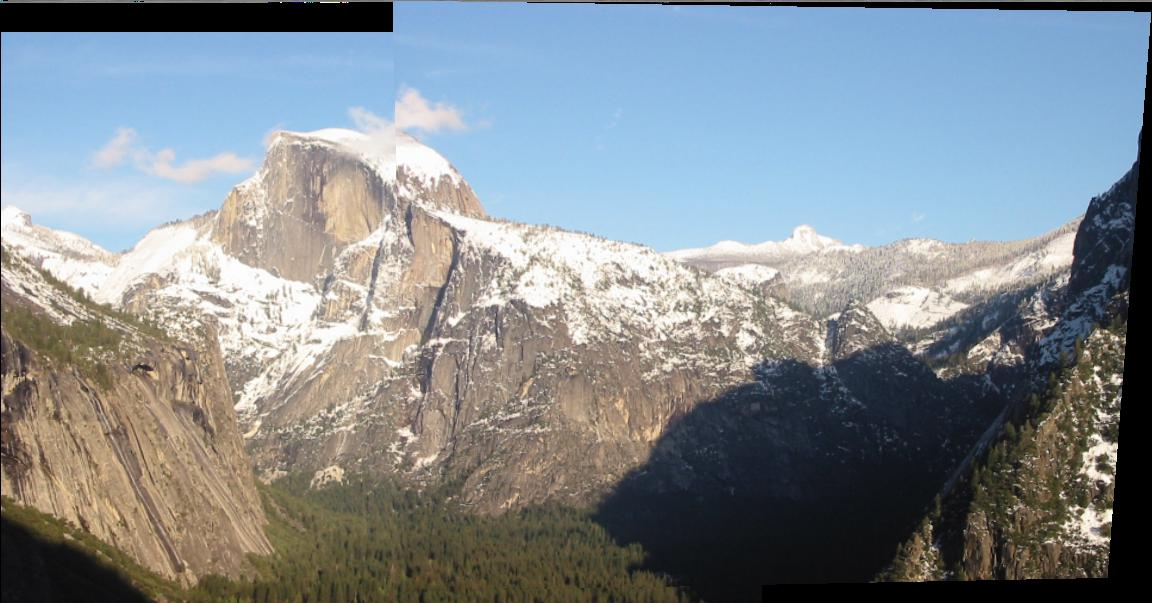
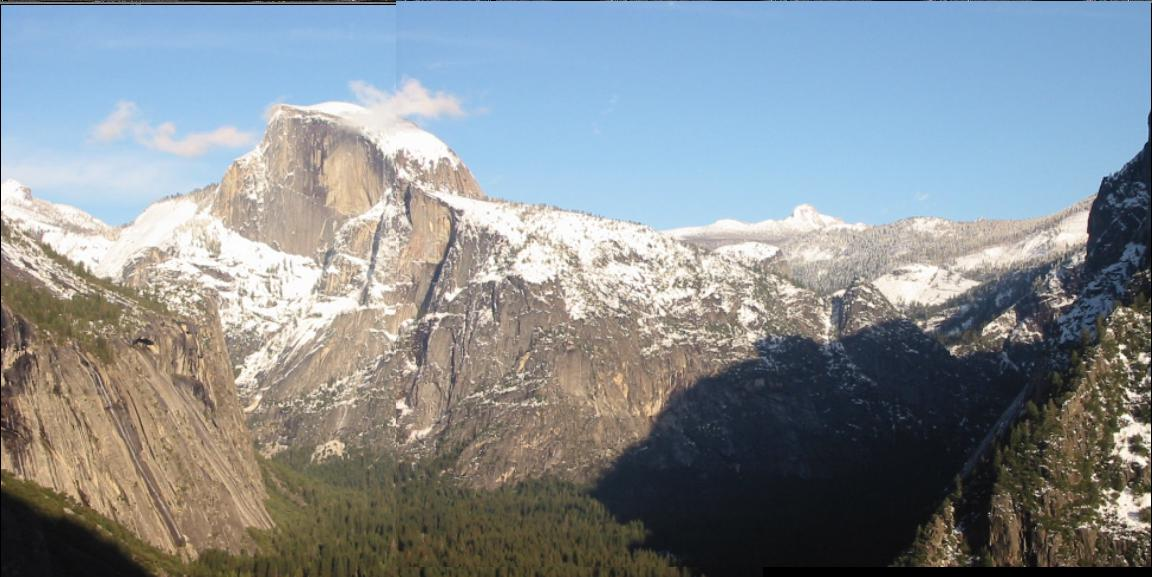
- Refactoring - RANSAC adaptativo (ainda comentado)

diff --git a/work-3/MyActions/utils.cpp b/work-3/MyActions/utils.cpp
@@ -711,15 +711,24 @@ vector< pair<Dot*,Dot*> > Utils::surf(const char *img1Path, const char * img2Pat
       return goodPairs;
 }
 
-vector< pair<Dot*,Dot*> > Utils::getBestPairs(vector< pair<Dot*,Dot*> > pairs, int n, int numberOfCorrespondences)
+vector< pair<Dot*,Dot*> > Utils::getBestPairs(vector< pair<Dot*,Dot*> > pairs, int n, int numberOfCorrespondences, double threshold)
 {
     srand (time(NULL));
     int maxInliers = 0;
     vector< pair<Dot*,Dot*> > bestInliers;
     vector< pair<Dot*,Dot*> > bestInliersInCurrentIteration;
     vector< pair<Dot*,Dot*> > randomPairs;
-    for (int i = 0; i < n; i++)
-    {
+    //double N = 588;
+    //double Ni = 0;
+    //double w = 1; // Inliers likelihood
+    //double e = 0; // Outliers likelihood
+    //double p = 0.99;
+    //bool adaptativeSearch = true;
+    //int ransacCounter = 0;
+
+    //while(ransacCounter < N){
+    for (int i = 0; i < n; i++){
+
         bestInliersInCurrentIteration.clear();
         int inliers = 0;
         // get random correspondences
@@ -741,6 +750,20 @@ vector< pair<Dot*,Dot*> > Utils::getBestPairs(vector< pair<Dot*,Dot*> > pairs, i
 
         // do DLT with these random pairs
         Matrix3d H1 = dltNormalized(randomPairs);
+        /*vector<Vector3i> a;
+        vector<Vector3d> b;
+        Vector3i first;
+        Vector3d second;
+        for (int s = 0; s < randomPairs.size(); s++)
+        {
+            pair <Dot*, Dot*> p = pairs.at(s);
+            first << p.first->x(), p.first->y(), 1;
+            second << p.second->x(), p.second->y(), 1;
+            a.push_back(first);
+            b.push_back(second);
+        }
+        Matrix3d H1 = calculateHomographyMatrix(a, b);*/
+
 
         // Apply H in all points in the first image and calculate error between z and y
         MatrixXd y(3,1);
@@ -757,7 +780,9 @@ vector< pair<Dot*,Dot*> > Utils::getBestPairs(vector< pair<Dot*,Dot*> > pairs, i
             y = H1*x;
             y << y(0,0)/y(2,0), y(1,0)/y(2,0), 1;
             z << pointInSecondImage->x(), pointInSecondImage->y(),1;
-            if (squaredEuclideanDistance(z, y) <= 1000)
+            double distance = squaredEuclideanDistance(z, y); //(squaredEuclideanDistance(x, H1.inverse().eval()*z) + squaredEuclideanDistance(z, y));
+            //cout << distance << endl;
+            if ( distance < threshold)
             {
                 inliers++;
                 std::pair <Dot*, Dot*> inlier(pointInFirstImage, pointInSecondImage);
@@ -770,11 +795,28 @@ vector< pair<Dot*,Dot*> > Utils::getBestPairs(vector< pair<Dot*,Dot*> > pairs, i
             bestInliers = bestInliersInCurrentIteration;
         }
 
+        /*if(adaptativeSearch){
+            e = 1 - ((double)inliers/pairs.size());
+            if(e < w){
+                w = e;
+                Ni = log(1-p)/log(1 - pow(1 -w,4));
+                if(Ni < N){
+                     adaptativeSearch = false;
+                }else{
+                    N = Ni;
+                }
+            }
+        }
+
+        ransacCounter++;
+        if(ransacCounter >= 10000)
+            break;*/
+
     }
     return bestInliers;
 }
 
-Matrix3d Utils::getBestH1(vector< pair<Dot*,Dot*> > pairs, int n, int numberOfCorrespondences)
+Matrix3d Utils::getBestH1(vector< pair<Dot*,Dot*> > pairs, int n, int numberOfCorrespondences, double threshold)
 {
     srand (time(NULL));
     int maxInliers = 0;
@@ -823,7 +865,7 @@ Matrix3d Utils::getBestH1(vector< pair<Dot*,Dot*> > pairs, int n, int numberOfCo
             y = H1*x;
             y << y(0,0)/y(2,0), y(1,0)/y(2,0), 1;
             z << pointInSecondImage->x(), pointInSecondImage->y(),1;
-            if (squaredEuclideanDistance(z, y) <= 60000)
+            if (squaredEuclideanDistance(z, y) <= threshold)
             {
                 inliers++;
                 std::pair <Dot*, Dot*> inlier(pointInFirstImage, pointInSecondImage);
@@ -846,12 +888,12 @@ Matrix3d Utils::getBestH1(vector< pair<Dot*,Dot*> > pairs, int n, int numberOfCo
     return bestH1;
 }
 
-Matrix3d Utils::ransac(vector< pair<Dot*,Dot*> > pairs, int numberOfCorrespondences, int n)
+Matrix3d Utils::ransac(vector< pair<Dot*,Dot*> > pairs, int numberOfCorrespondences, int n, double threshold)
 {
-    vector< pair<Dot*,Dot*> > bestInliers = getBestPairs(pairs, n, numberOfCorrespondences);
-    //cout << "=========" << endl;
-    //cout << (int)pairs.size() << endl;
-    //cout << (int)bestInliers.size() << endl;
+    vector< pair<Dot*,Dot*> > bestInliers = getBestPairs(pairs, n, numberOfCorrespondences, threshold);
+    cout << "=========" << endl;
+    cout << (int)pairs.size() << endl;
+    cout << (int)bestInliers.size() << endl;
     Matrix3d H = dltNormalized(bestInliers);
     return H;
 

diff --git a/work-3/MyActions/mainwindow.cpp b/work-3/MyActions/mainwindow.cpp
@@ -82,9 +82,9 @@ void MainWindow::on_actionSave_triggered()
                 img2Path = rootPath+Utils::intToString(i+1)+".jpg";
                 outputImgPath = rootPath+Utils::intToString(i)+"-"+Utils::intToString(i+1)+".jpg";
             }*/
-            img1Path = "/home/fschuindt/dev/qt-persperctive-distortion-remotion/work-3/MyActions/pan_1.png";
-            img2Path = "/home/fschuindt/dev/qt-persperctive-distortion-remotion/work-3/MyActions/pan_0.png";
-            outputImgPath = "/home/fschuindt/dev/qt-persperctive-distortion-remotion/work-3/MyActions/pan_01.png";
+            img1Path = "/home/fschuindt/dev/qt-persperctive-distortion-remotion/work-3/MyActions/yosemite1.jpg";
+            img2Path = "/home/fschuindt/dev/qt-persperctive-distortion-remotion/work-3/MyActions/yosemite2.jpg";
+            outputImgPath = "/home/fschuindt/dev/qt-persperctive-distortion-remotion/work-3/MyActions/yosemite1-2-teste.jpg";
 
             cout << "*************** INPUT ***************" << endl;
             cout << img1Path << endl;
@@ -119,7 +119,7 @@ void MainWindow::on_actionSave_triggered()
             cout << endl;*/
 
             cout << "H ransac" << endl;
-            H = Utils::ransac(pairs, 4, 200);
+            H = Utils::ransac(pairs, 4, 200, 5);
             cout << H << endl;
             cout << "H ransac" << endl;
             cout << endl;

diff --git a/work-3/MyActions/utils.h b/work-3/MyActions/utils.h
@@ -58,11 +58,11 @@ public:
     static bounds getBounds(vector< std::pair<QImage, Matrix3d> > imgs);
     static vector< pair<Dot*,Dot*> > surf(const char * img1, const char * img2);
     static vector< pair<Dot*,Dot*> > sift(const char *img1Path, const char * img2Path);
-    static Matrix3d ransac(vector< pair<Dot*,Dot*> > pairs, int numberOfCorrespondences, int n);
+    static Matrix3d ransac(vector< pair<Dot*,Dot*> > pairs, int numberOfCorrespondences, int n, double threshold);
     static double squaredEuclideanDistance(MatrixXd a, MatrixXd b);
     static string intToString(int a);
-    static vector< pair<Dot*,Dot*> > getBestPairs(vector< pair<Dot*,Dot*> > pairs, int n, int numberOfCorrespondences);
-    static Matrix3d getBestH1(vector< pair<Dot*,Dot*> > pairs, int n, int numberOfCorrespondences);
+    static vector< pair<Dot*,Dot*> > getBestPairs(vector< pair<Dot*,Dot*> > pairs, int n, int numberOfCorrespondences, double threshold);
+    static Matrix3d getBestH1(vector< pair<Dot*,Dot*> > pairs, int n, int numberOfCorrespondences, double threshold);
 };
 
 #endif // UTILS_H
